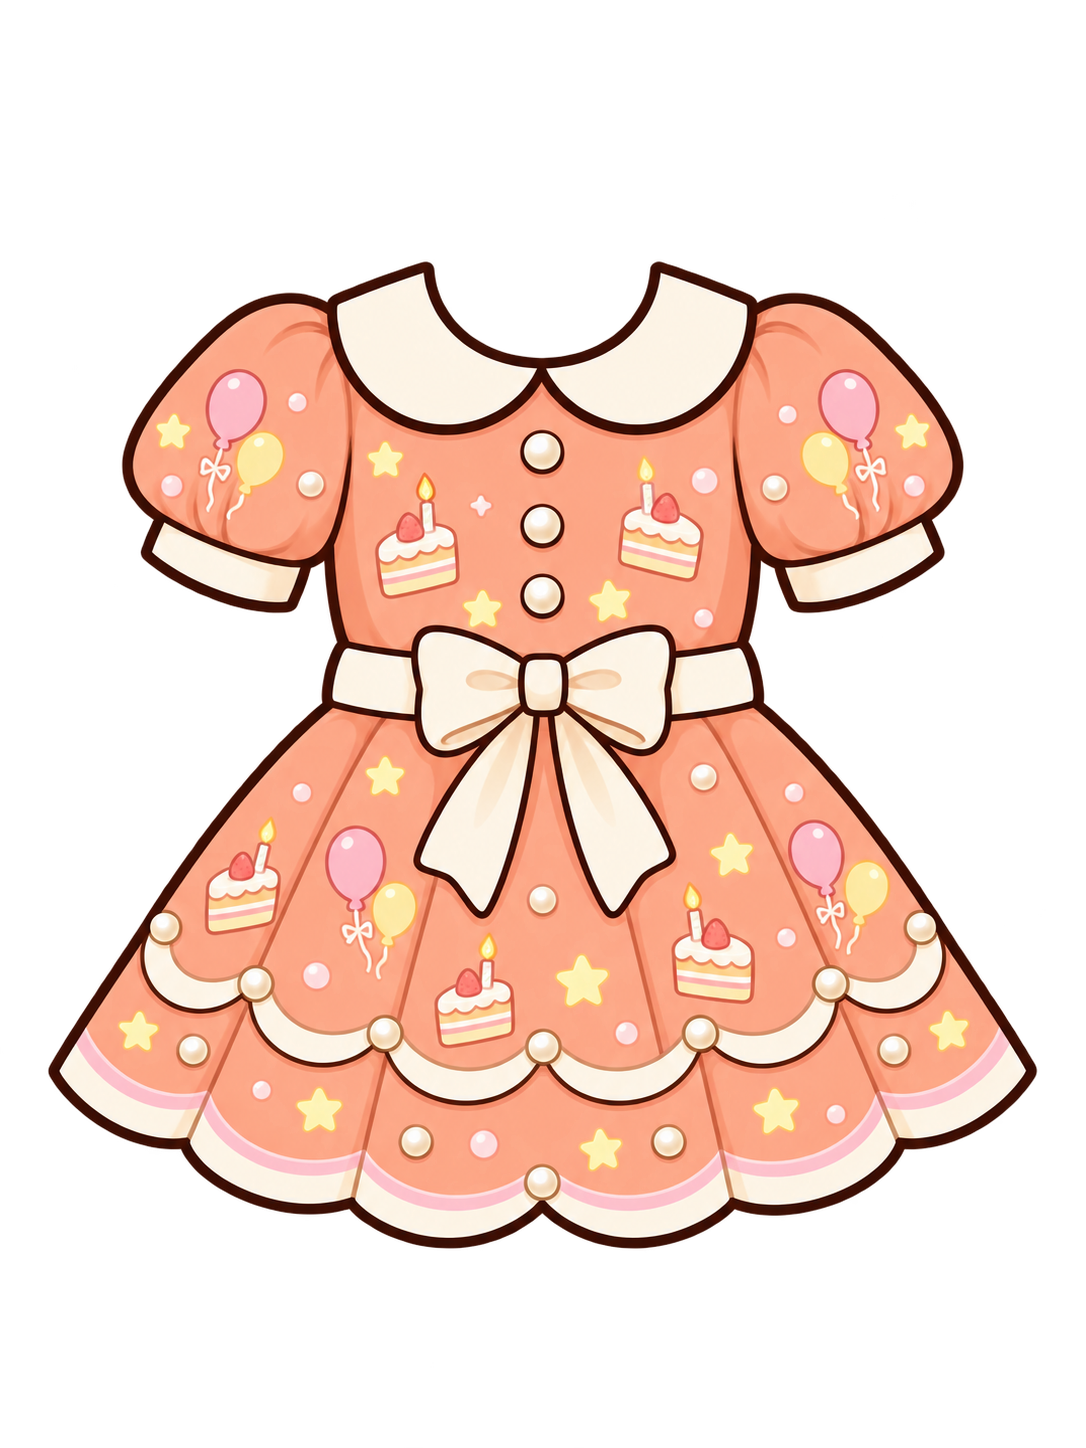
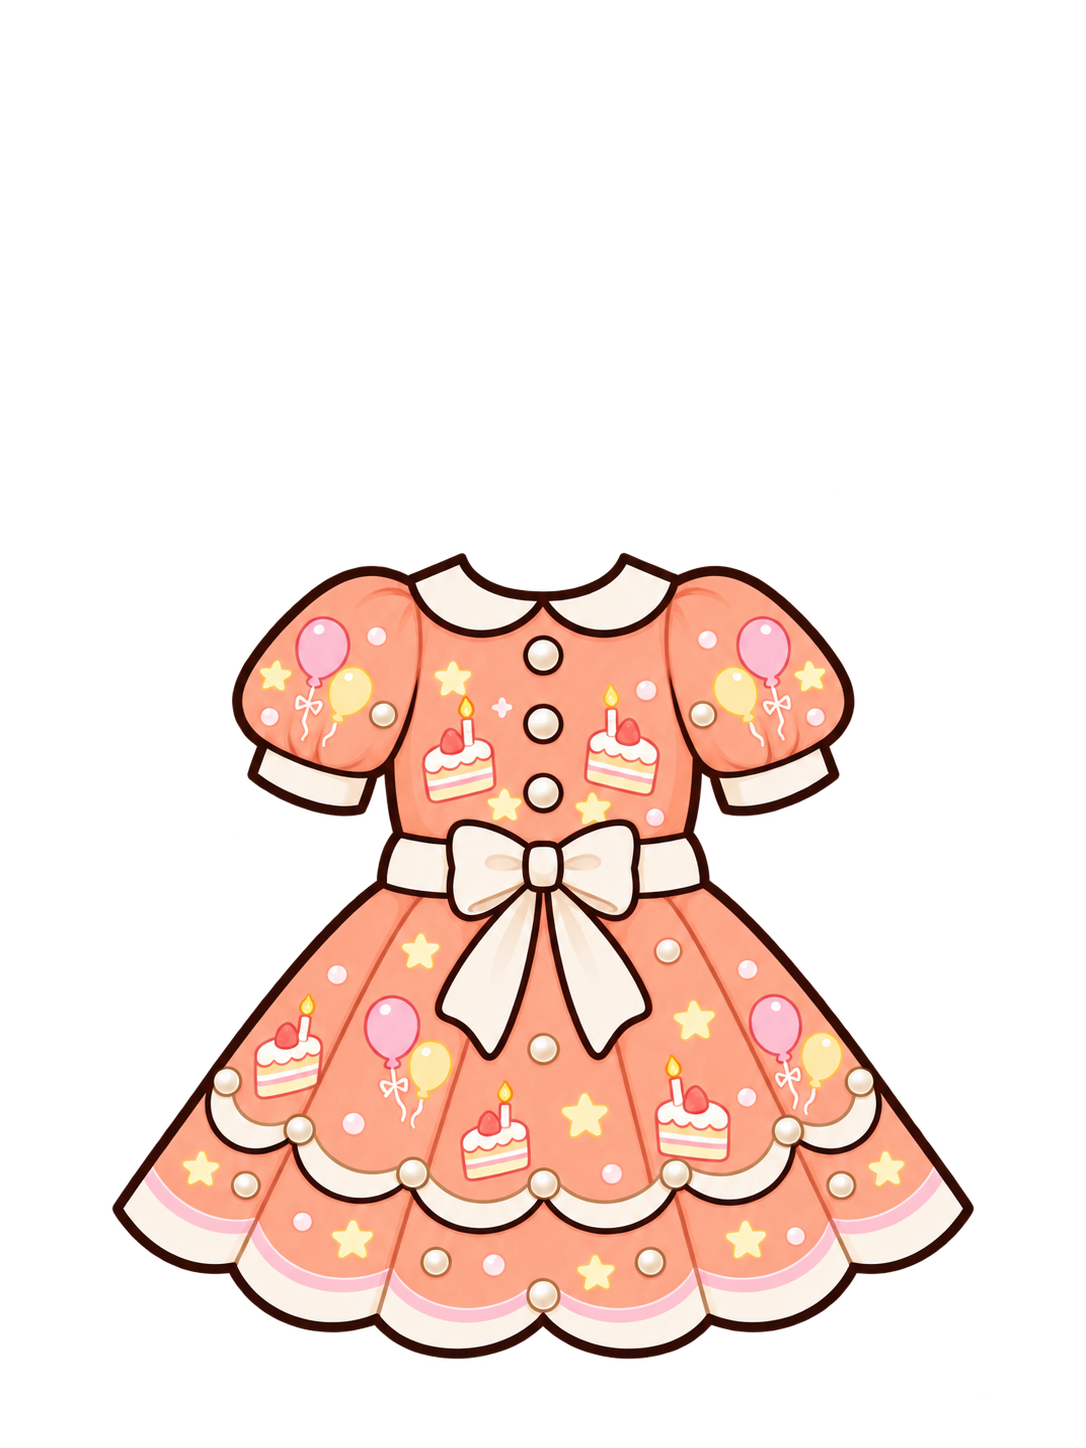
Fix birthday dress fit and remove outfit locks

diff --git a/data.js b/data.js
@@ -22,8 +22,7 @@
     tags: ['cute', `color-${i % colors.length}`],
     color: colors[i % colors.length],
     variant: i,
-    layer: category.layer,
-    lockedAt: category.id === 'dress' ? ({ 9: 3, 10: 5, 11: 10 }[i] || undefined) : undefined
+    layer: category.layer
   })));
 
   const characters = [
